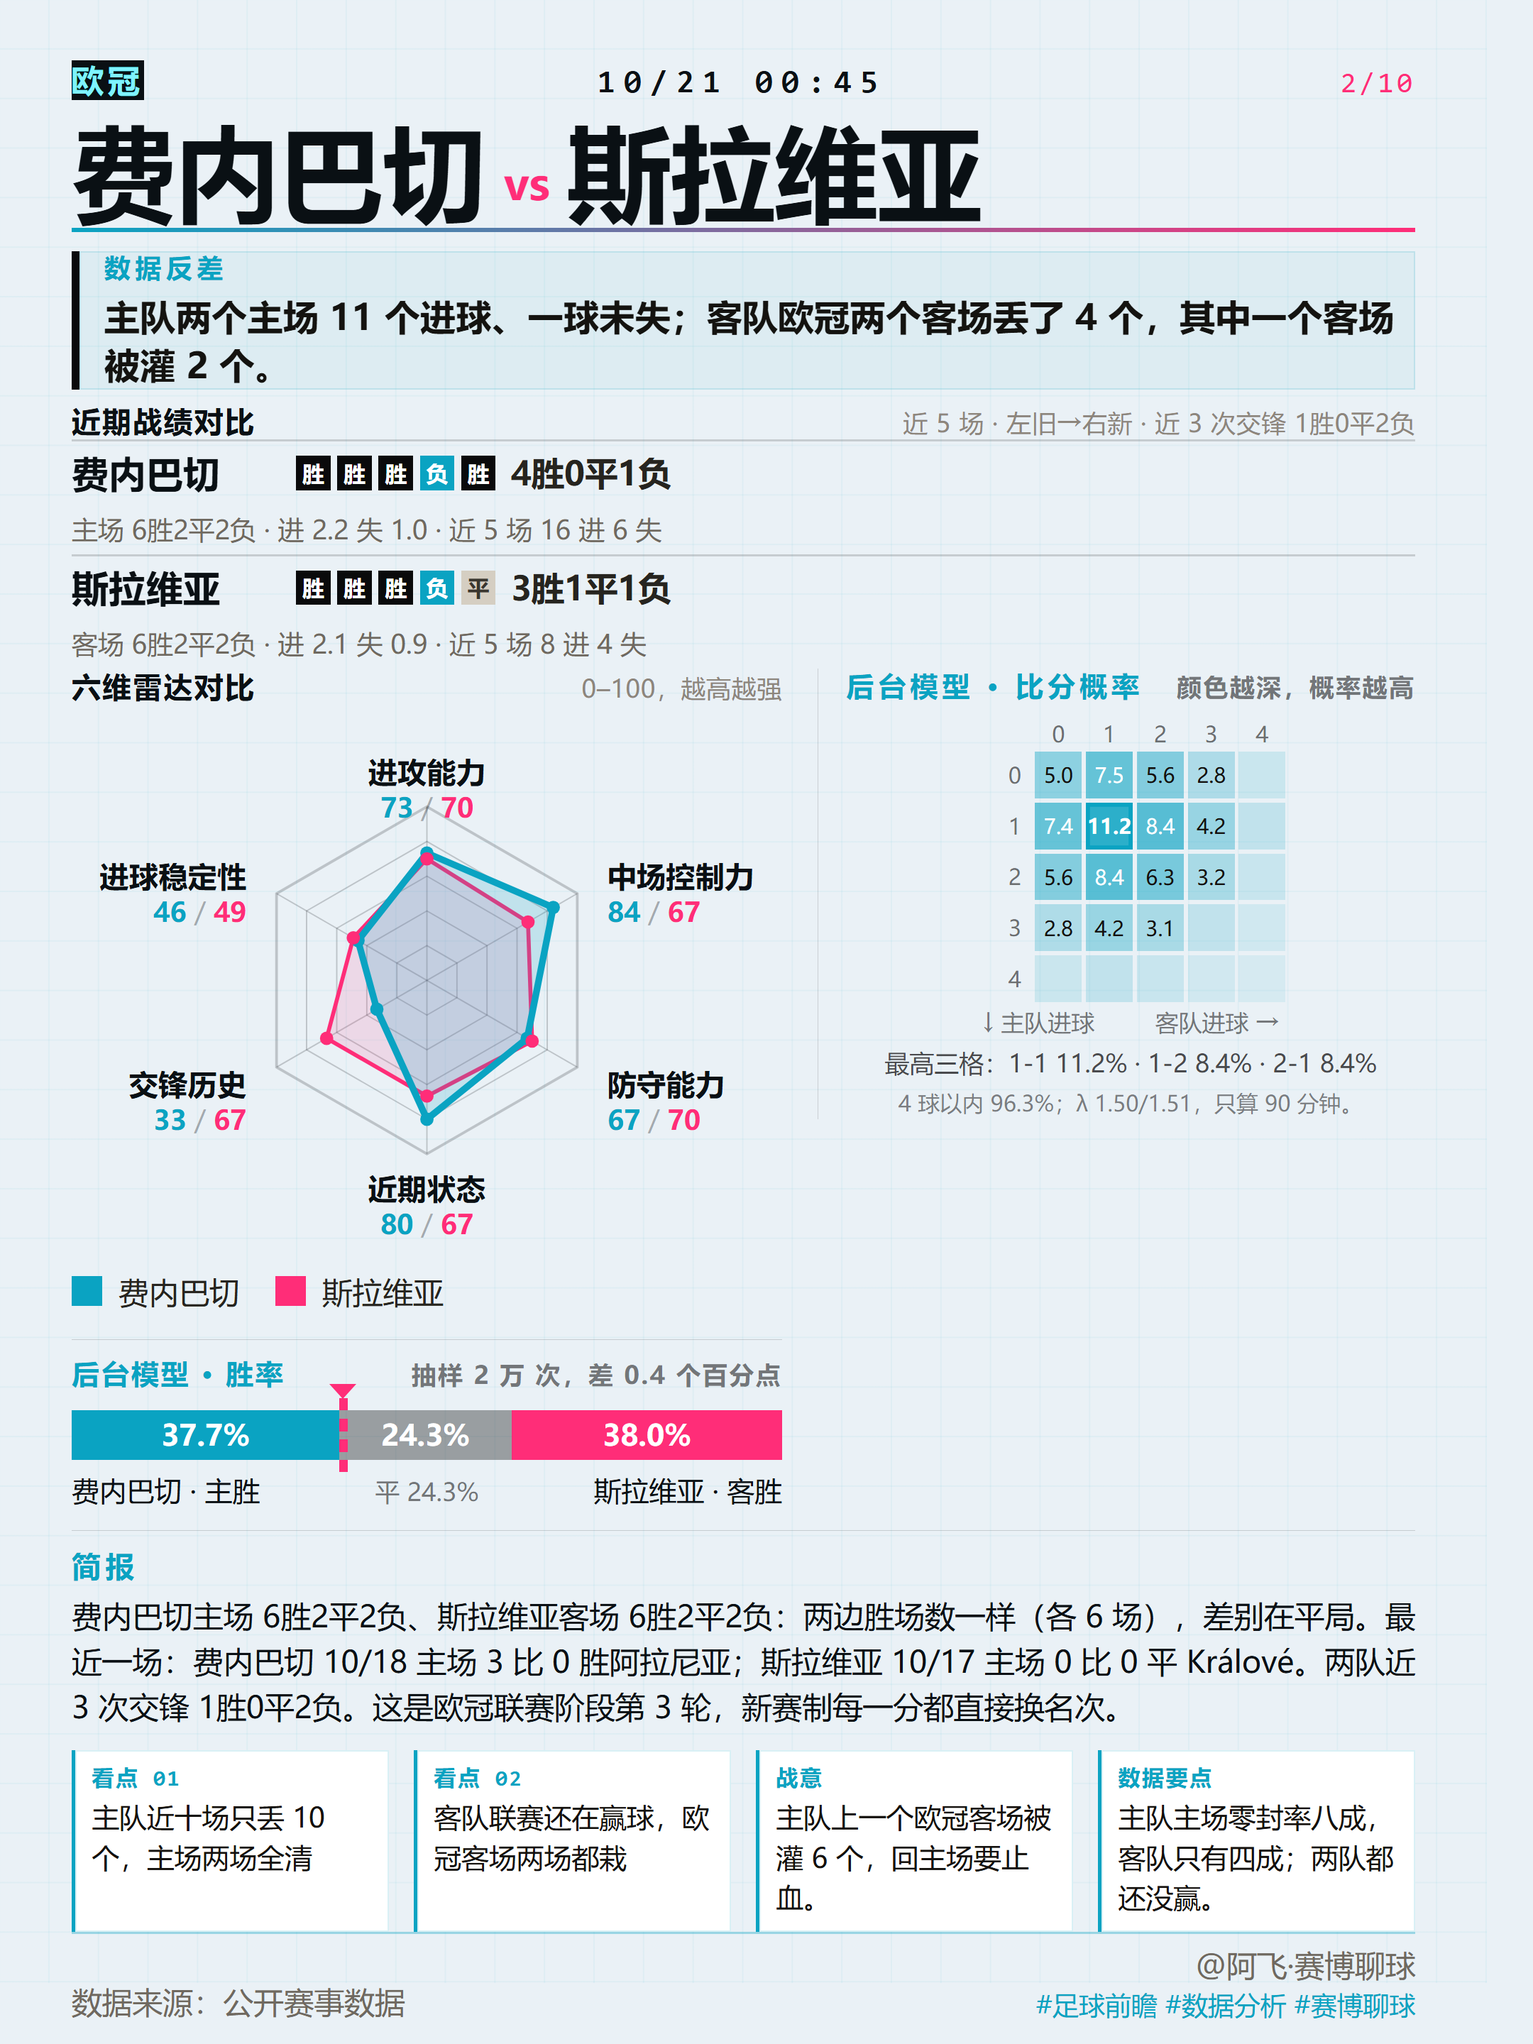
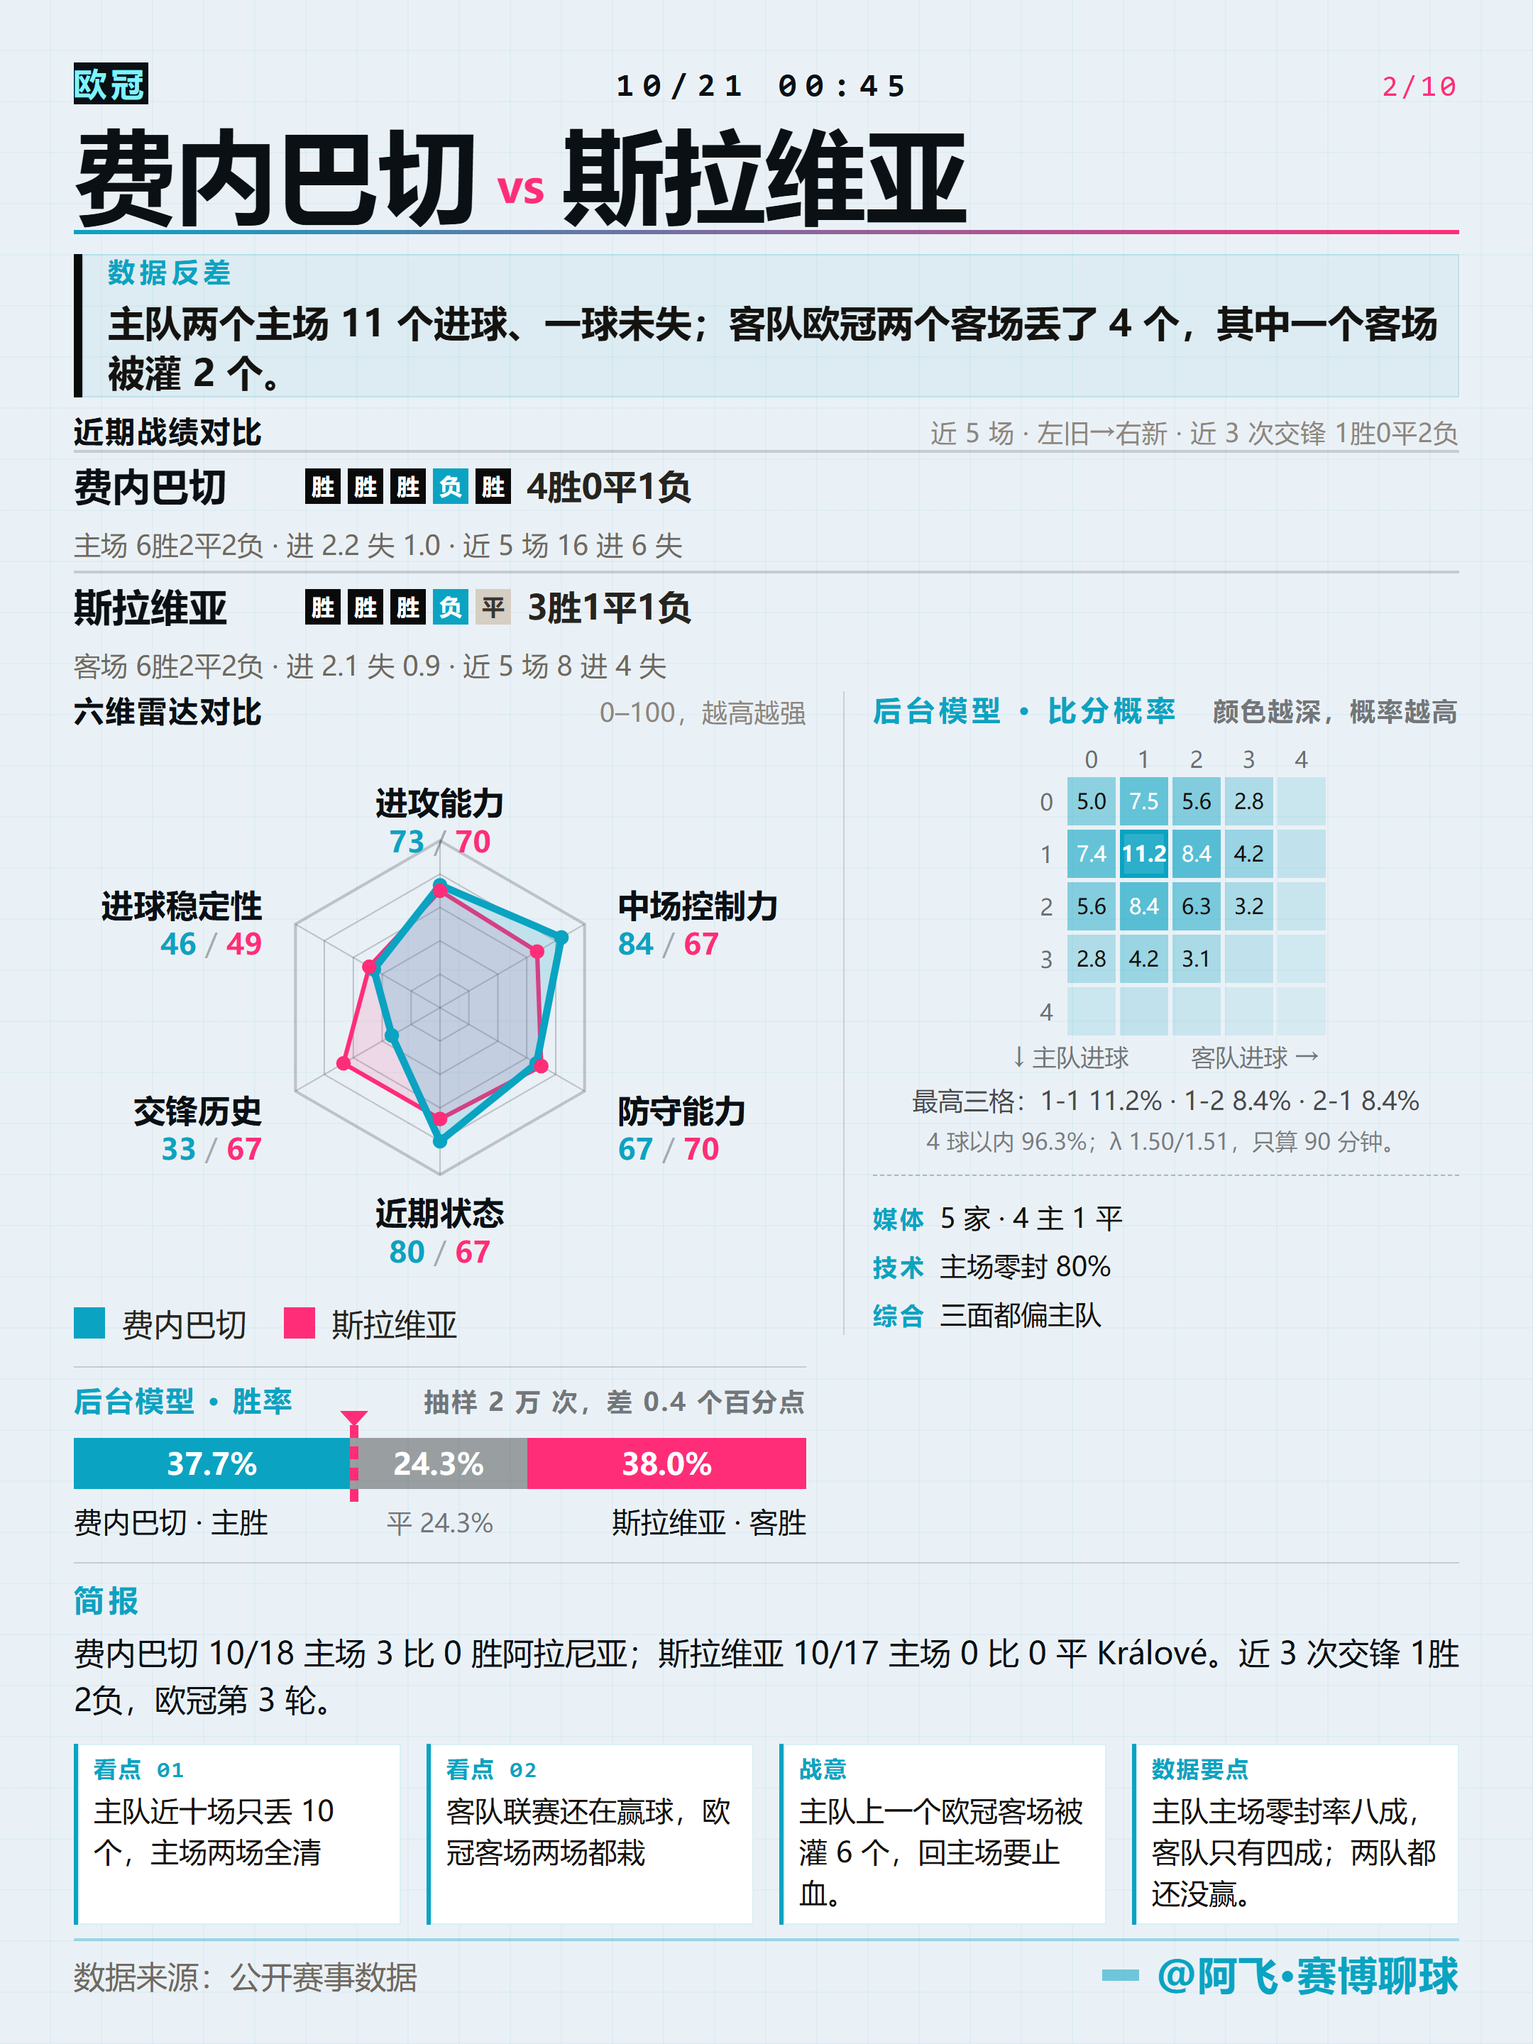
小红书周二九场：加三面读数块、页脚去话题标签并放大名片签名

diff --git a/scripts/xhs_html.py b/scripts/xhs_html.py
@@ -486,7 +486,7 @@ DATA_CSS = """
 /* 队名 4 个字（国际米兰/比利亚雷/埃因霍温）不能折行；「数据要点」标签也不能折 */
 .card.data .frow .tn{flex:0 0 152px}
 .card.data .note .nl{flex:0 0 118px}
-.ed.data h1{font-size:76px}
+.ed.data h1{font-size:72px}
 .ed.data .cq .lab{color:#9b5a2e}
 .ed.data .frow .tn{font-size:27px}
 .ed.data .frow .num{font-size:24px}
@@ -521,19 +521,23 @@ DATA_CSS = """
 .card.data .viz .c1{flex:0 0 516px}
 .card.data .viz .c2{flex:1;min-width:0;padding-left:20px;border-left:1px solid rgba(10,10,11,.14)}
 .card.data .viz .c2 .head2{white-space:nowrap}
+.card.data .cvbox{margin-top:12px;padding-top:10px;border-top:1px dashed rgba(10,10,11,.24)}
+.card.data .cvrow{display:flex;align-items:baseline;gap:9px;font-size:19px;line-height:1.52;margin-top:5px}
+.card.data .cvrow i{flex:0 0 auto;font-style:normal;font-weight:700;font-size:17px;letter-spacing:.12em;color:#0aa3c2}
+.card.data .cvrow span{flex:1;min-width:0;color:#14110d}
 .card.data .viz .radar{margin-top:0;padding-top:0}
 /* 雷达默认会撑满栏宽（448px 栏→340px 方图），并进单卡后必须按 size 收住，否则整行 590px */
 .card.data .viz .radar .wrap svg{width:516px;height:auto;max-width:none;display:block;margin:0 auto}
 .card.data .viz .wdl .head2{flex-wrap:nowrap;white-space:nowrap;margin-bottom:10px}
 .card.data .viz .wdl .lab{letter-spacing:.08em}
-.card.data .viz .wdl{margin-top:14px;padding-top:12px;border-top:1px solid rgba(10,10,11,.16)}
+.card.data .viz .wdl{margin-top:10px;padding-top:10px;border-top:1px solid rgba(10,10,11,.16)}
 .card.data .heat{margin-top:0;padding-top:0;border-top:0}
 .card.data .notesrow .c1,.card.data .notesrow .c2{flex:1 1 0;min-width:0}
 .card.data .notesrow .c2{padding-left:28px;border-left:1px solid rgba(10,10,11,.14)}
 .card.data .notesrow .note:first-child{margin-top:0}
 /* 底部四格一行：看点①② ＋ 战意 ＋ 数据要点（省 ~180px，见 quad_row_html 注释） */
 .card.data .quad{display:grid;gap:18px;margin-top:15px}
-.card.data .quad .qcell{background:#fff;border-left:3px solid #9b5a2e;padding:9px 12px 10px;min-width:0}
+.card.data .quad .qcell{background:#fff;border-left:3px solid #9b5a2e;padding:7px 11px 8px;min-width:0}
 .card.data .quad .qlab{font-size:16px;font-weight:700;letter-spacing:.08em;color:#9b5a2e;margin-bottom:5px}
 .card.data .quad p{margin:0;font-size:20px;line-height:1.45;color:#14110d}
 .card.data .wdl .hint,.card.data .heat .hint{font-size:18px;color:rgba(10,10,11,.55)}
@@ -574,6 +578,32 @@ DATA_CSS = """
 # 封面（2026-10-13 用户要求重做）：要日期 + 「今日赛事前瞻」 + 主客队名，
 # 字体要大、内容不多但抓眼。三套风格共用这套结构，颜色走 var(--accent)。
 # --------------------------------------------------------------------------- #
+WM_CSS = """
+/* ---- 水印名片（2026-10-20 用户：名片字体放大、像水印，每张都有） ---- */
+.card{position:relative;overflow:hidden}
+.card .foot .brand{font-weight:800;letter-spacing:.06em;line-height:1}
+.card.data .foot .brand{font-size:32px}
+.card.cover .foot .brand{font-size:34px}
+.card .foot .r{display:flex;align-items:center;justify-content:flex-end;gap:12px}
+.card .foot .bmk{display:inline-block;width:26px;height:8px;background:currentColor;opacity:.55}
+.card.ed .foot .brand,.card.ed .foot .bmk{color:#14110d}
+.card.sw .foot .brand,.card.sw .foot .bmk{color:#0a0a0a}
+.card.rg .foot .brand,.card.rg .foot .bmk{color:#b8322a}
+.card.cy .foot .brand,.card.cy .foot .bmk{color:#0aa3c2}
+.card.ed .wm{color:rgba(155,90,46,.07)}
+.card.sw .wm{color:rgba(232,64,42,.07)}
+.card.rg .wm{color:rgba(184,50,42,.07)}
+.card > *:not(.wm){position:relative;z-index:1}
+.card .foot .brand{font-weight:800;letter-spacing:.02em}
+.card.data .foot .brand{font-size:28px;line-height:1.05}
+.card.cover .foot .brand{font-size:30px;line-height:1.05}
+.card.ed .foot .brand{color:#14110d}
+.card.sw .foot .brand{color:#0a0a0a}
+.card.rg .foot .brand{color:#b8322a}
+.card.cy .foot .brand{color:#0aa3c2}
+"""
+
+
 COVER_CSS = """
 .cover{padding-top:88px}
 .cover .top{align-items:center}
@@ -685,9 +715,17 @@ def notes_html(card: dict, cluster: str, labels: tuple = ("战意", "信号")) -
 
 
 def footer_html(card: dict) -> str:
-    return ('<div class="foot"><div class="l">' + esc(card.get("source", "数据来源：中国体育官方数据平台")) +
-            '</div><div class="r">' + esc(card.get("brand", "@阿飞·赛博聊球")) +
-            f'<div class="tags">{esc(card.get("tags", ""))}</div></div></div>')
+    # 2026-10-20 用户定：卡片底部不挂话题标签（标签只留在文案里），
+    # 名片字号放大当水印用 —— 大号底纹见 watermark_html()。
+    return ('<div class="foot"><div class="l">' + esc(card.get("source", "数据来源：公开赛事数据")) +
+            '</div><div class="r"><span class="bmk"></span><span class="brand">' +
+            esc(card.get("brand", "@阿飞·赛博聊球")) + '</span></div></div>')
+
+
+def watermark_html(card: dict) -> str:
+    """大号半透明名片底纹（每张都带，压右下角）。只做视觉签名，不参与读数。"""
+    name = (card.get("brand") or "@阿飞·赛博聊球").lstrip("@")
+    return '<div class="wm" aria-hidden="true">%s</div>' % esc(name)
 
 
 # --------------------------------------------------------------------------- #
@@ -855,7 +893,7 @@ TEMPLATES = ("A", "B", "C")
 TPL_NAME = {"A": "战绩在前", "B": "简报提前", "C": "简报开篇"}
 TPL_HEAT = {"A": 34, "B": 36, "C": 32}       # 热力图单格边长
 TPL_BAR = {"A": 36, "B": 40, "C": 34}        # 胜率条高度
-TPL_RADAR = {"A": 260, "B": 250, "C": 270}
+TPL_RADAR = {"A": 228, "B": 220, "C": 236}
 TPL_STATE = Path(ROOT) / "state" / "xhs_templates.json"
 
 
@@ -994,6 +1032,21 @@ def heat_html(card: dict, tpl: str = "A") -> str:
                ('<div class="hnote mnote">%s</div>' % esc(md.get("note"))) if md.get("note") else ""))
 
 
+def converge_html(card: dict) -> str:
+    """三面读数：媒体前瞻倾向 / 技术面 / 综合。
+
+    2026-10-20 用户「空白处加点其他信息因素：全球媒体和AI预测、战术与技术分析、综合结论」。
+    放在模型行右栏热力图下方（那里本来就空着），所以每行必须短（右栏约 300px 宽）。
+    **只做读数陈述**：不写谁该赢、不写方向建议（判罚史见坑#69），百分比只来自模型块。
+    """
+    rows = card.get("cv") or []
+    if not rows:
+        return ""
+    items = "".join('<div class="cvrow"><i>%s</i><span>%s</span></div>' % (esc(r[0]), esc(r[1]))
+                    for r in rows if r and len(r) >= 2)
+    return '<div class="cvbox">%s</div>' % items if items else ""
+
+
 def vizrow_html(card: dict, cluster: str, tpl: str = "A", heat_left: bool = False) -> str:
     """模型行：左栏＝六维雷达＋胜率条，右栏＝比分概率热力图（B 模板左右互换）。
 
@@ -1006,6 +1059,9 @@ def vizrow_html(card: dict, cluster: str, tpl: str = "A", heat_left: bool = Fals
         nt = notes_html(card, cluster, ("战意", "数据要点"))
         return ('<div class="row2 tail2"><div class="c1">%s</div><div class="c2">%s</div></div>'
                 % (rz, nt)) if (rz and nt) else (rz + nt)
+    cv = converge_html(card)
+    # 三面读数紧贴热力图脚注（塞进 heat 的 </section> 里），避免被拉到底、中间留一段空白
+    ht = ht.replace("</section>", cv + "</section>", 1) if cv else ht
     l, r = (ht, rz + wd) if heat_left else (rz + wd, ht)
     return ('<div class="row2 tail2 viz"><div class="c1">%s</div><div class="c2">%s</div></div>'
             % (l, r))
@@ -1071,7 +1127,7 @@ def all_card_html(card: dict, meta: dict, style: str, idx: int, total: int, vari
             % (rz, nt)) if (rz and nt) else (rz + nt)
     body = sep + st + contradiction_html(card) + row1 + fm + ((fc + row2) if variant % 2 else (row2 + fc))
     return f"""<!doctype html><html lang="zh-CN"><head><meta charset="utf-8">
-<style>{BASE_CSS}{css}{ext_css(cluster)}</style></head><body>
+<style>{BASE_CSS}{css}{ext_css(cluster)}{WM_CSS}</style></head><body>
 <div id="fit"><div class="card {cluster} all">
   {top}
   {head}
@@ -1120,7 +1176,7 @@ def data_card_html(card: dict, meta: dict, style: str, idx: int, total: int, var
         order = order[:-2] + (order[-1], order[-2])
     body = sep + "".join(blocks[k] for k in order)
     return f"""<!doctype html><html lang="zh-CN"><head><meta charset="utf-8">
-<style>{BASE_CSS}{css}{ext_css(cluster)}</style></head><body>
+<style>{BASE_CSS}{css}{ext_css(cluster)}{WM_CSS}</style></head><body>
 <div id="fit"><div class="card {cluster} all data tpl{tpl}">
   {top}
   {head}
@@ -1163,7 +1219,7 @@ def model_card_html(card: dict, meta: dict, style: str, idx: int, total: int, va
         order = order[:-2] + (order[-1], order[-2])
     body = sep + "".join(blocks[k] for k in order)
     return f"""<!doctype html><html lang="zh-CN"><head><meta charset="utf-8">
-<style>{BASE_CSS}{css}{ext_css(cluster)}</style></head><body>
+<style>{BASE_CSS}{css}{ext_css(cluster)}{WM_CSS}</style></head><body>
 <div id="fit"><div class="card {cluster} all data model tpl{tpl}">
   {top}
   {head}
@@ -1216,7 +1272,7 @@ def card_html(card: dict, meta: dict, style: str, idx: int, total: int,
         rz, nt = radar_html(card, cluster), notes_html(card, cluster)
         body = sep + (nt + rz if variant % 2 == 1 else rz + nt)
     return f"""<!doctype html><html lang="zh-CN"><head><meta charset="utf-8">
-<style>{BASE_CSS}{css}{ext_css(cluster)}</style></head><body>
+<style>{BASE_CSS}{css}{ext_css(cluster)}{WM_CSS}</style></head><body>
 <div id="fit"><div class="card {cluster}">
   {top}
   {head}
@@ -1252,7 +1308,7 @@ def cover_html(meta: dict, items: list, total: int, style: str) -> str:
     tail = meta.get("cover_tail") or ("每场一张图：数据反差 · 近期战绩 · 六维雷达 · 后台模型胜率与比分概率 · "
                                       "数据看点 · 战意与要点 →")
     return f"""<!doctype html><html lang="zh-CN"><head><meta charset="utf-8">
-<style>{BASE_CSS}{css}{COVER_CSS}</style></head><body>
+<style>{BASE_CSS}{css}{COVER_CSS}{WM_CSS}</style></head><body>
 <div id="fit"><div class="card {cluster} cover{' many' if len(items) >= 5 else ''}">
   {top}
   <div class="date">{esc(date)}</div>

diff --git a/📚知识库/写作指南/小红书图文卡片.md b/📚知识库/写作指南/小红书图文卡片.md
@@ -173,6 +173,23 @@ python scripts/xhs_model.py --input "..." --n-mc 50000 --force                  
 - 热力图缩格子：`TPL_HEAT = {"A":34,"B":36,"C":32}`、`TPL_BAR = {"A":36,"B":40,"C":34}`，否则雷达撑高会顶到底部（第一版直接 `底部仅 0px` 裁掉页脚）；
 - 一屏装不下真 2 倍直径（440 直径的六轴雷达连标签约 700px 高），**能翻倍的是字**；要再大只能减块（去简报或拆第二张「雷达页」）。
 
+### 三面读数块 `cv`（2026-10-20 用户「空白处补媒体和 AI 预测、战术技术分析、综合结论」）
+
+模型行右栏热力图下方本来就空着一块，2026-10-20 起填成三行读数：
+
+- `cards.json` 每场加 `cv: [["媒体","…"],["技术","…"],["综合","…"]]`，渲染进 `.cvbox`（虚线分隔 + 青色 2 字标签 + 19px 正文）。
+- 位置：**塞进 heat 的 `</section>` 内部**（`ht.replace("</section>", cv + "</section>", 1)`）；放在 `</section>` 之后会被右栏拉到底、中间留一大段空白。
+- 内容纪律：只写**读数**——媒体写「几家、几家给哪边」，技术写零封率/上半场占比这类公开统计，综合只写「三面是否同侧、分歧在哪个面」。**不写该买谁、不写比分猜测**（判罚史见坑#69；正文里更是一句都不能有）。
+- 右栏约 300px 宽，每行必须 ≤16 字，否则折行把整行顶高。
+- **空间代价**：三行 ≈ 100px，必须同步让位——简报压到 ≤80 字（2 行）、`TPL_RADAR` 降到 228、四格 padding 收紧，否则 6 场以上的长卡会顶穿 1440 被裁（`bottom_margin` 归零）。
+
+### 页脚：不挂话题标签，名片做成签名块（2026-10-20 用户定）
+
+- **图上不再放 `#话题`**：标签只留在文案（`文案.md` 的正文末尾），页脚左边只有「数据来源：公开赛事数据」。
+- 名片 = 品牌色短条（26×8px）+ `@阿飞·赛博聊球`，**32px 加粗、宽字距**（封面 34px），各风格用 `currentColor` 跟着换色。
+- 试过「大号幽灵水印」（`font-size:104px`、`opacity .055`、绝对定位在页脚带）：**会压住页脚文字**，糊成一片，已弃用；要水印感就靠签名块本身。
+- 页脚长高约 10px，改完必须复测 `bottom_margin`（这批从 53 掉到 0 然后又调回 69@2x）。
+
 ## 一张卡装什么（⚠ 旧「全信息单卡」形态，仅作代码参考：`--kind all`）
 
 用户原话：**「卡片图片每期还是多样化。但其中要包含核心矛盾，本次看点，战意，信号。加上两队近期战绩对比。再贴一个六维雷达对比图」**

diff --git a/docs/HANDOFF.md b/docs/HANDOFF.md
@@ -3736,3 +3736,11 @@ bash scripts/gh_labels_setup.sh
 - **模型块加 `note`**：`heat_html` 读 `model.note`，005/008 显示「本场还没开售，图为按同主客与近十场的试算，不作模型读数。」（CSS `.hnote.mnote`）。
 - **正文压到 997 字**（脚本按【正文】原文长度算，含换行；上一版 1028 被判超限）。
 - **雷达放大**：`radar_svg()` 画布改成按标签宽高算（缩放比≈1）、`TPL_RADAR` A260 / `label_font=22`、`.viz .c1=516px`、`TPL_HEAT` A34 / `TPL_BAR` A36。图上 22px＝原来的 2.6 倍；直径 220→260。真 2 倍直径一屏放不下（六轴带标签约 700px 高），已写进文档。
+
+### 七、三面读数 + 页脚改版（2026-10-20 三轮）
+
+- **新块 `cv`（三面读数）**：媒体前瞻家数 / 技术面统计 / 综合。放在模型行右栏热力图下方那块空白（塞进 heat 的 `</section>` 内，否则会被拉到底）。只写读数不写方向建议——判罚点在正文，但卡上也不碰「看好/推荐/站队」。
+- **内容来源分层**：001/002/004/006/007/009/010 的媒体家数、上半场占比、零封率来自 `20261020_周二欧冠7场_内部分析报告.md`；005/008 该报告没有（未开售），媒体行写「暂无前瞻源」、综合写「无媒体源 · 只留技术面」，不编。
+- **页脚改版**：图上删掉 `#话题`（标签只留文案），名片改成签名块——品牌色短条 + `@阿飞·赛博聊球` 32px 加粗宽字距（封面 34px）。试过 104px 幽灵水印，压住页脚文字已弃用。
+- **为腾 100px 做的收紧**：简报压到 60–77 字（2 行，原来是 121–154 字 3–4 行）、`TPL_RADAR` A228、四格 padding 9→7、胜率块 margin 14→10。全 10 张 `bottom_margin` 统一 69@2x，无裁切。
+- 正文 **997 字**不变，`xhs_riskcheck` 通过。
